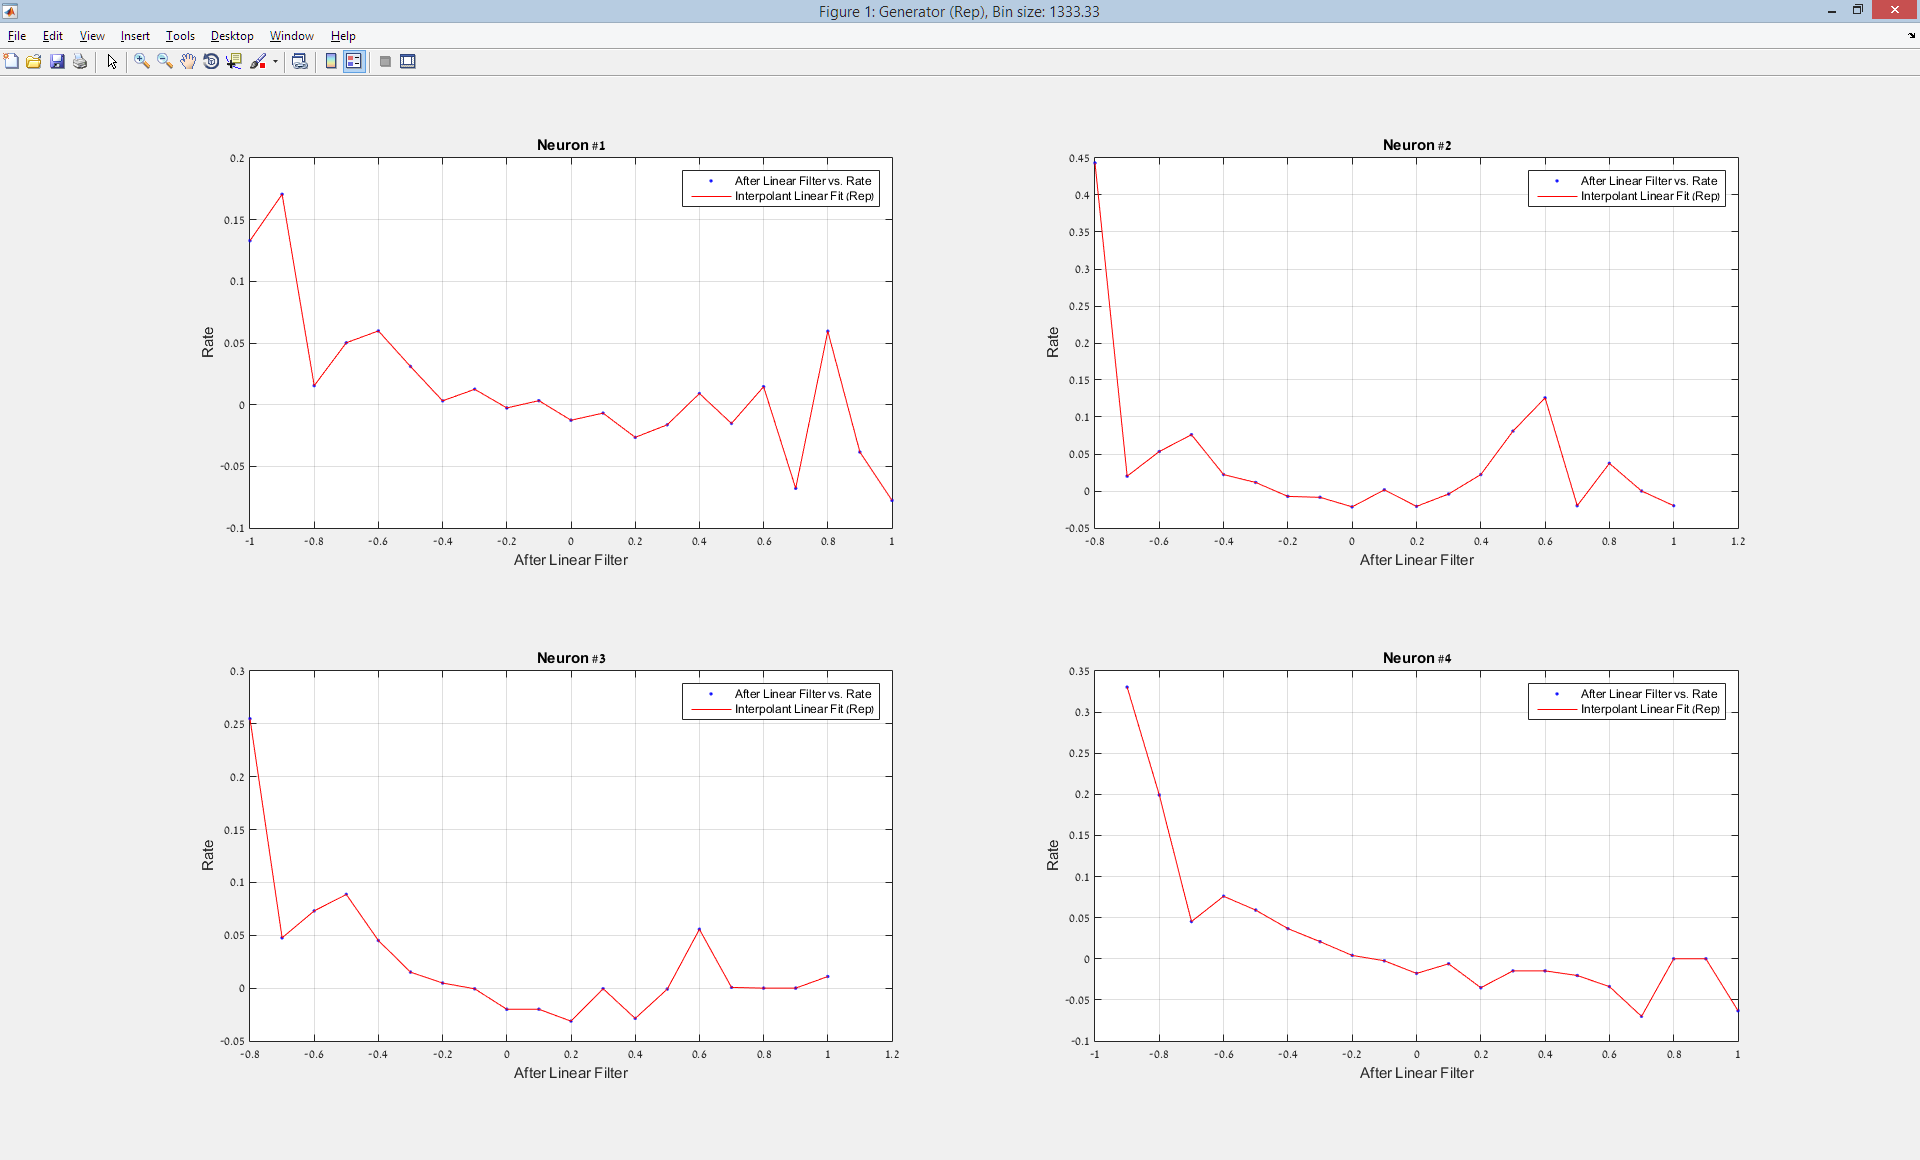
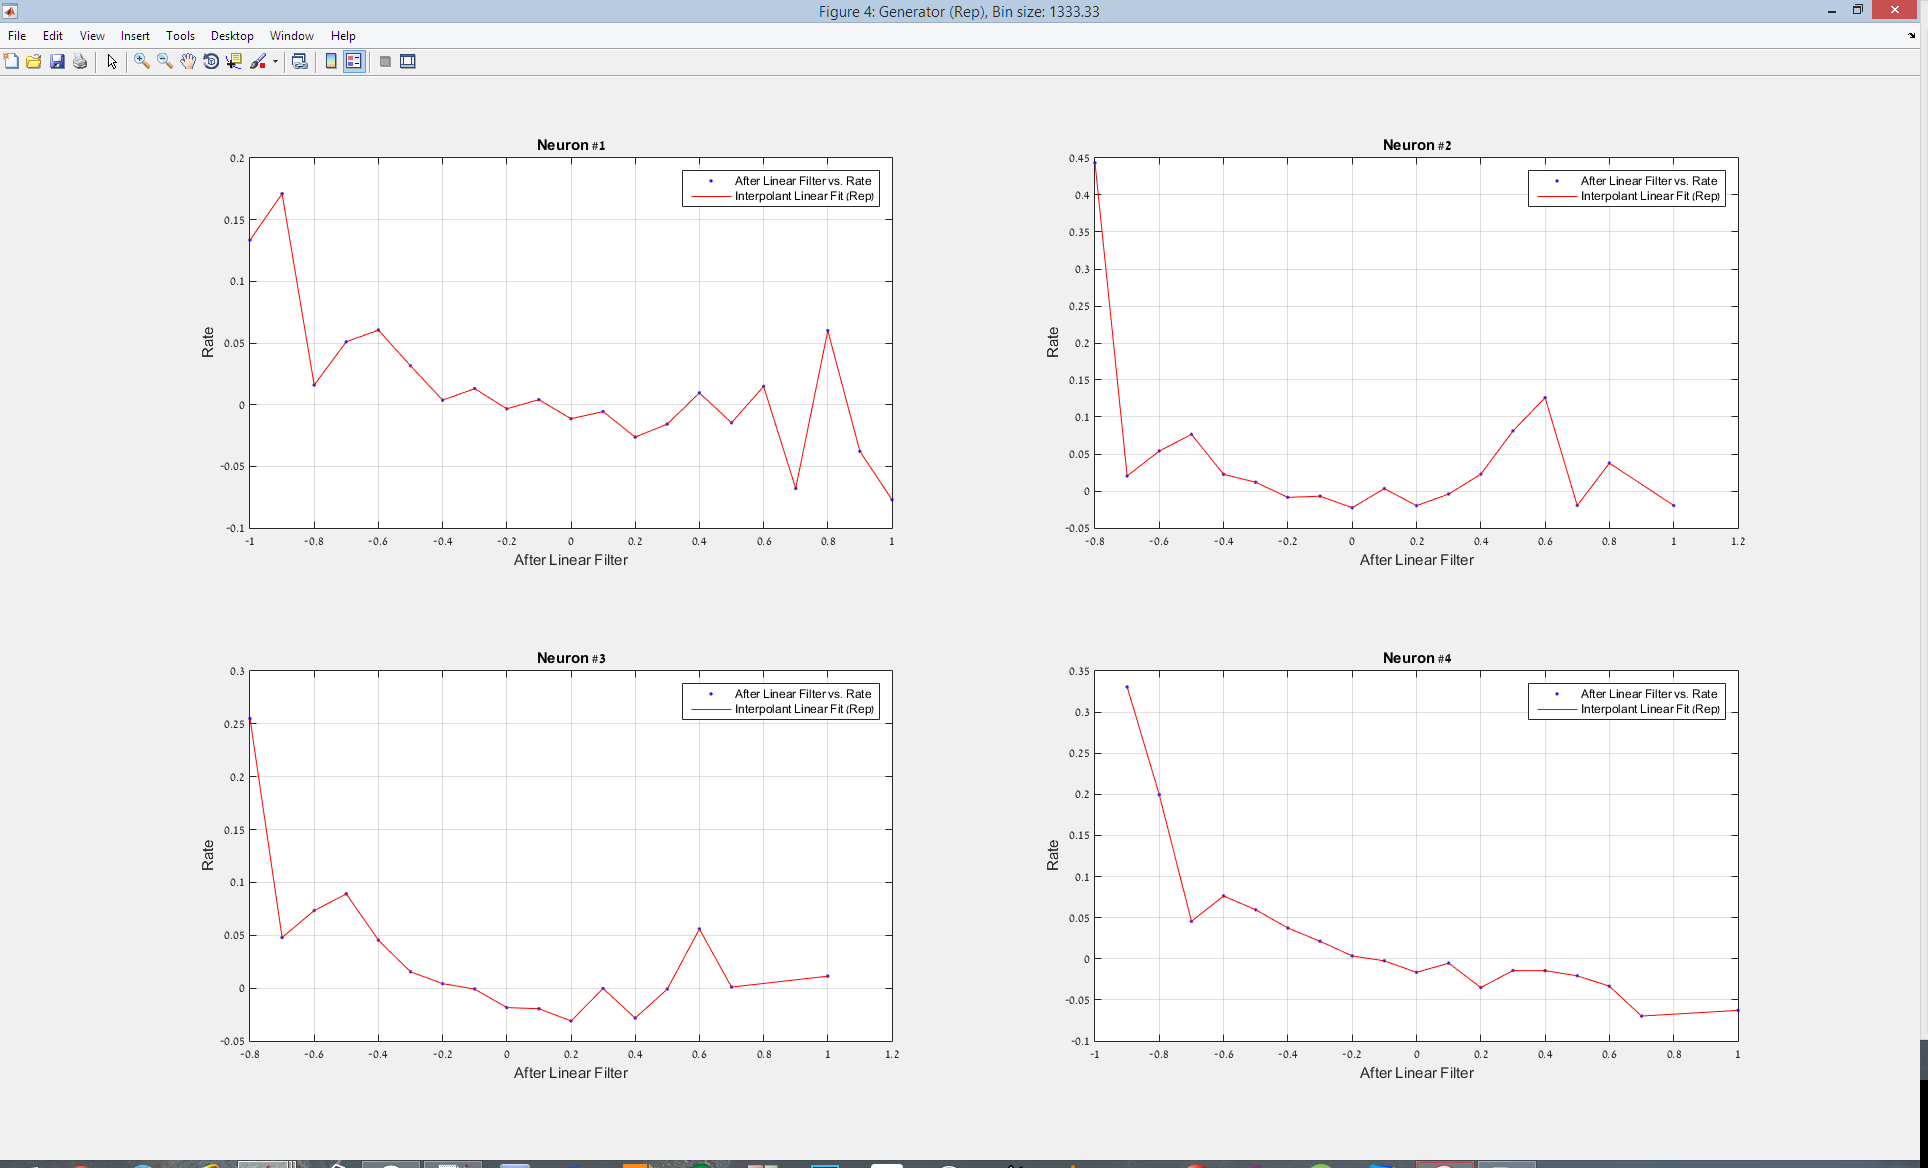
improved generator no acc over iteration on RvsRest

diff --git a/4/POC/GeneratorPhase.m b/4/POC/GeneratorPhase.m
@@ -47,7 +47,7 @@ for iBinSize=1:numel(PSTH_BIN_SIZES)
     
     figure( 'Name', sprintf('Generator (%s), Bin size: %.2f', ...
         MODE, curBinSize));
-
+    
     for iNeuron=1:NEURONS
         subplot(2,2,iNeuron);
         curNeuron = Simulation.Neuron{iNeuron};
@@ -70,13 +70,14 @@ for iBinSize=1:numel(PSTH_BIN_SIZES)
             windowData = curNeuron.Data(filter, :);
 
             times = windowData(:, 1);
-            times = times - onset+1;
+            %times = times - onset+1;
             stimValues = windowData(:,2);
             aps = windowData(:,3);
             stimsAfterLinearFilter = windowData(:,4);
 
             %bins = times(start):BIN_SIZE:times(end);
-            bins = 0:curBinSize:TICKS_IN_WINDOW;
+            %bins = 0:curBinSize:TICKS_IN_WINDOW;
+            bins = onset:curBinSize:next_onset-1;
             [~,binIndex] = histc(times(:,1),bins);
             %insert any unbinned data to last bin
             binIndex(binIndex==0)=max(binIndex);
@@ -89,25 +90,27 @@ for iBinSize=1:numel(PSTH_BIN_SIZES)
             grp_psth = accumarray(binIndex, aps, [length(bins) 1], sumIgnoreNaNs, NaN);
             grp_stimsAfterLinearFilter = accumarray(binIndex, stimsAfterLinearFilter, [length(bins) 1], meanIgnoreNaNs, NaN);
 
-            %binned = [ceil(bins') grp_stimValues grp_aps grp_stimsAfterLinearFilter];
-            binned = [ceil(bins') grp_stimsAfterLinearFilter grp_psth];
-            binned(binned(:,2) == 0,:) = [];
+            binned = [ceil(bins') grp_psth grp_stimsAfterLinearFilter];
+            
+            %removed pre allocated unused or conv padded rows
+            binned(isnan(binned(:,2)) | isnan(binned(:,3)), :) = [];
+            
+            %accumulate binned rows of all iterations
             accBinned(idxAcc+1:idxAcc+length(binned),:) = binned;
             idxAcc = idxAcc+length(binned);
         end
-
-        %remove unused preallocated rows or conv padded rows
-        accBinned(isnan(accBinned(:,2)) | isnan(accBinned(:,3)), :) = [];
+       
 
         %% normalize
         times = accBinned(:,1);
-        stimsAfterLinearFilter = accBinned(:,2);
-        psth = accBinned(:,3);
-
+        
         NORMALIZE = 1;
         NORMALIZE_BY_MAX = 1;
-        stimsAfterLinearFilter = normalize(stimsAfterLinearFilter, NORMALIZE, NORMALIZE_BY_MAX);
-        psth = normalize(psth, NORMALIZE, NORMALIZE_BY_MAX);
+        accBinned(:,2) = normalize(accBinned(:,2), NORMALIZE, NORMALIZE_BY_MAX);
+        accBinned(:,3) = normalize(accBinned(:,3), NORMALIZE, NORMALIZE_BY_MAX);
+        
+        psth = accBinned(:,2);
+        stimsAfterLinearFilter = accBinned(:,3);
 
         %% create the fit
         curveFitData = [stimsAfterLinearFilter psth];
@@ -143,22 +146,12 @@ for iBinSize=1:numel(PSTH_BIN_SIZES)
         curNeuron.PSTH{iBinSize}.Generator = fitresult;
                 
         %% apply the generator
-        bins = 0:curBinSize:TICKS_IN_WINDOW;
-        [~,binIndex] = histc(times(:,1),bins);
-        %insert any unbinned data to last bin - WE SHALL HAVE NO UNBINNED
-        %binIndex(binIndex==0)=max(binIndex);
-
-        %group by mean across iterations
-        grp_psth = accumarray(binIndex, psth, [length(bins) 1], @mean, NaN);
-        grp_stimsAfterLinearFilter = accumarray(binIndex, stimsAfterLinearFilter, [length(bins) 1], @mean, NaN);
-
-        rvsrest = [ceil(bins') grp_psth grp_stimsAfterLinearFilter NaN(length(bins), 1)];
-
-        rvsrest(isnan(rvsrest(:,2)) | isnan(rvsrest(:,3)), :) = [];
-        grp_stimsAfterGenerator = curNeuron.PSTH{iBinSize}.Generator(rvsrest(:,3));
-        rvsrest(:,4) = normalize(grp_stimsAfterGenerator, NORMALIZE, NORMALIZE_BY_MAX);
+        grp_stimsAfterGenerator = accBinned(:,3);
+        accBinned(:,4) = normalize( ...
+            fitresult(grp_stimsAfterGenerator), ...
+            NORMALIZE, NORMALIZE_BY_MAX);
         
-        curNeuron.PSTH{iBinSize}.RVsRest = rvsrest;
+        curNeuron.PSTH{iBinSize}.RVsRest = accBinned;
         
         Simulation.Neuron{iNeuron} = curNeuron;    
     end %for iNeuron
